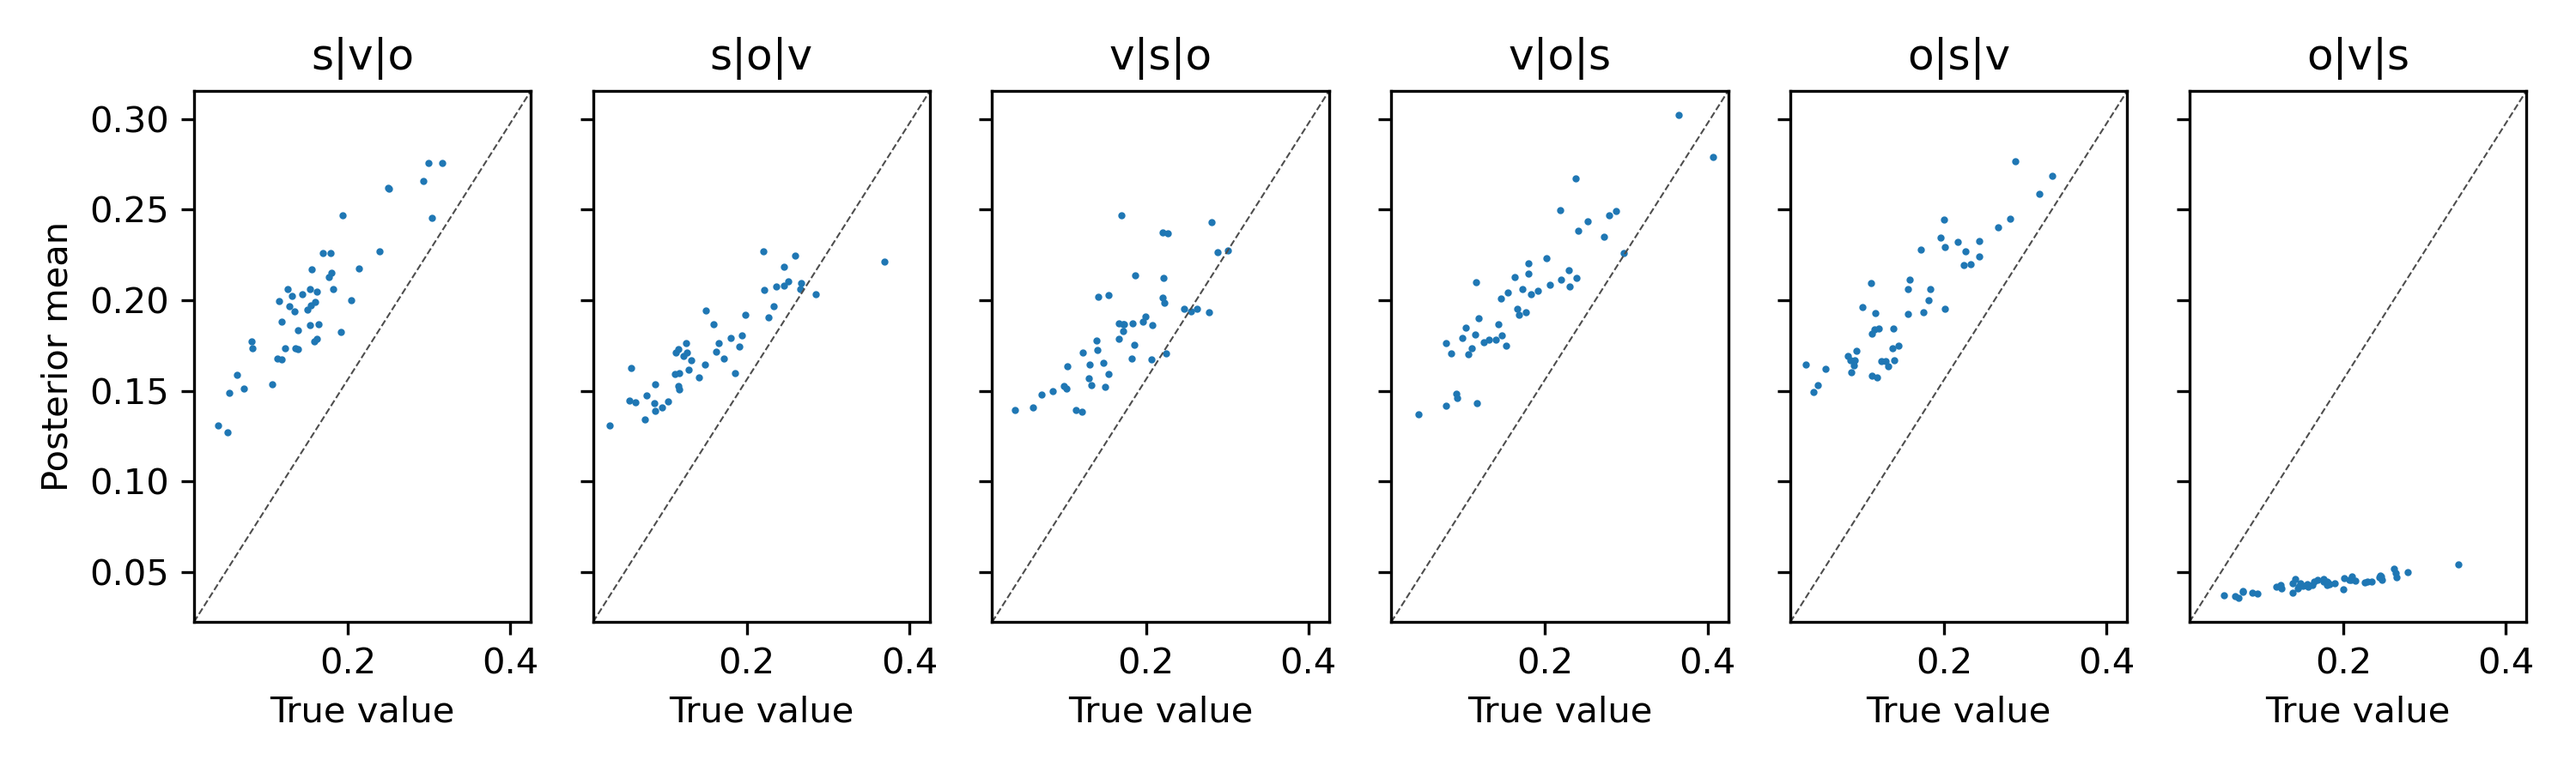
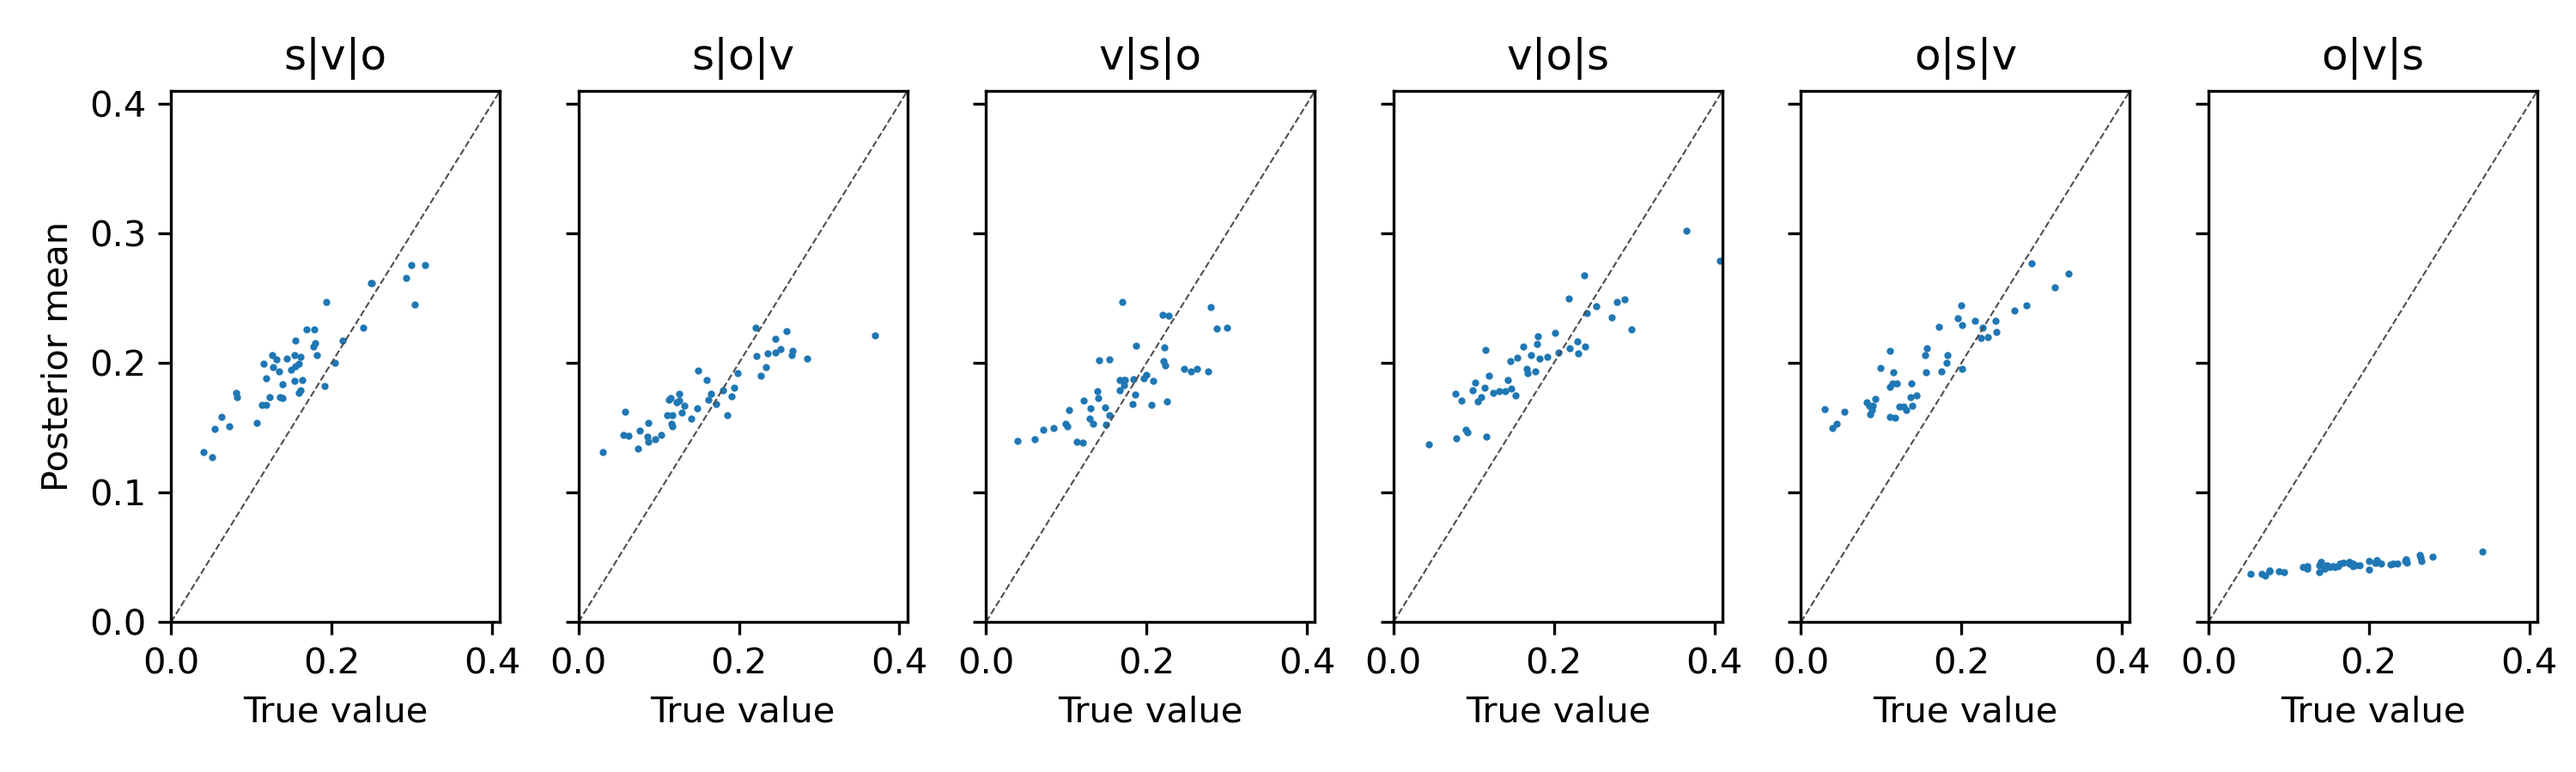
Fix imports

diff --git a/model/scripts/weight_model_fit.py b/model/scripts/weight_model_fit.py
@@ -6,24 +6,35 @@ import pickle
 from .simulation_functions import define_objects, normalize, simulate_full_experiment, define_objects
 from .data_functions import get_data, get_first_n_trials, get_analysis_arrays
 
-try:
+
+import subprocess
+import sys
+
+reqs = subprocess.check_output([sys.executable, '-m', 'pip', 'freeze'])
+installed_packages = [
+    r.decode().split('==')[0] 
+    for r in reqs.split()
+]
+
+if 'pymc3' in installed_packages:
+    print("Pymc3 found")
     import pymc3 as pm
     import theano
     import theano.tensor as tt
-    tprint = theano.printing.Print
-except ImportError:
-    try:
-        print("Pymc3 not found, trying pymc v4 instead")
-        import pymc as pm
-        import aesara as theano
-        import aesara.tensor as tt
-        tprint = theano.printing.Print
-    except ImportError:
-        print("Pymc v4 not found, trying pymc v5")
-        import pymc as pm
-        import pytensor as theano
-        import pytensor.tensor as tt
-        tprint = theano.printing.Print
+elif 'aesara' in installed_packages:
+    print("Aesara found, import pymc v4")
+    import pymc as pm
+    import aesara as theano
+    import aesara.tensor as tt
+elif 'pytensor' in installed_packages:
+    print("Pymc v4 not found, trying pymc v5")
+    import pymc as pm
+    import pytensor as theano
+    import pytensor.tensor as tt
+else:
+    raise ImportError("No pymc3, pymc4 or pymc5 found")
+
+tprint = theano.printing.Print
 
 print("Beginning: Using this version of pymc: ", pm.__version__)
 
@@ -854,16 +865,7 @@ def get_and_fit_data(participant_exclusion=True,
     )
     
     print('Got and wrangled the data')
-    try:
-        # For some reasons pymc wasn't loaded here!
-        import pymc3 as pm
-        import theano
-        import theano.tensor as tt
-        tprint = theano.printing.Print
-        print("Using this version of pymc: ", pm.__version__)
-    except ModuleNotFoundError:
-        print("Pymc3 not found")
-    
+
     if first_n_trials is not None:
         print(f'Getting only the first {first_n_trials} trials')
         analysis_arrays = get_first_n_trials(
